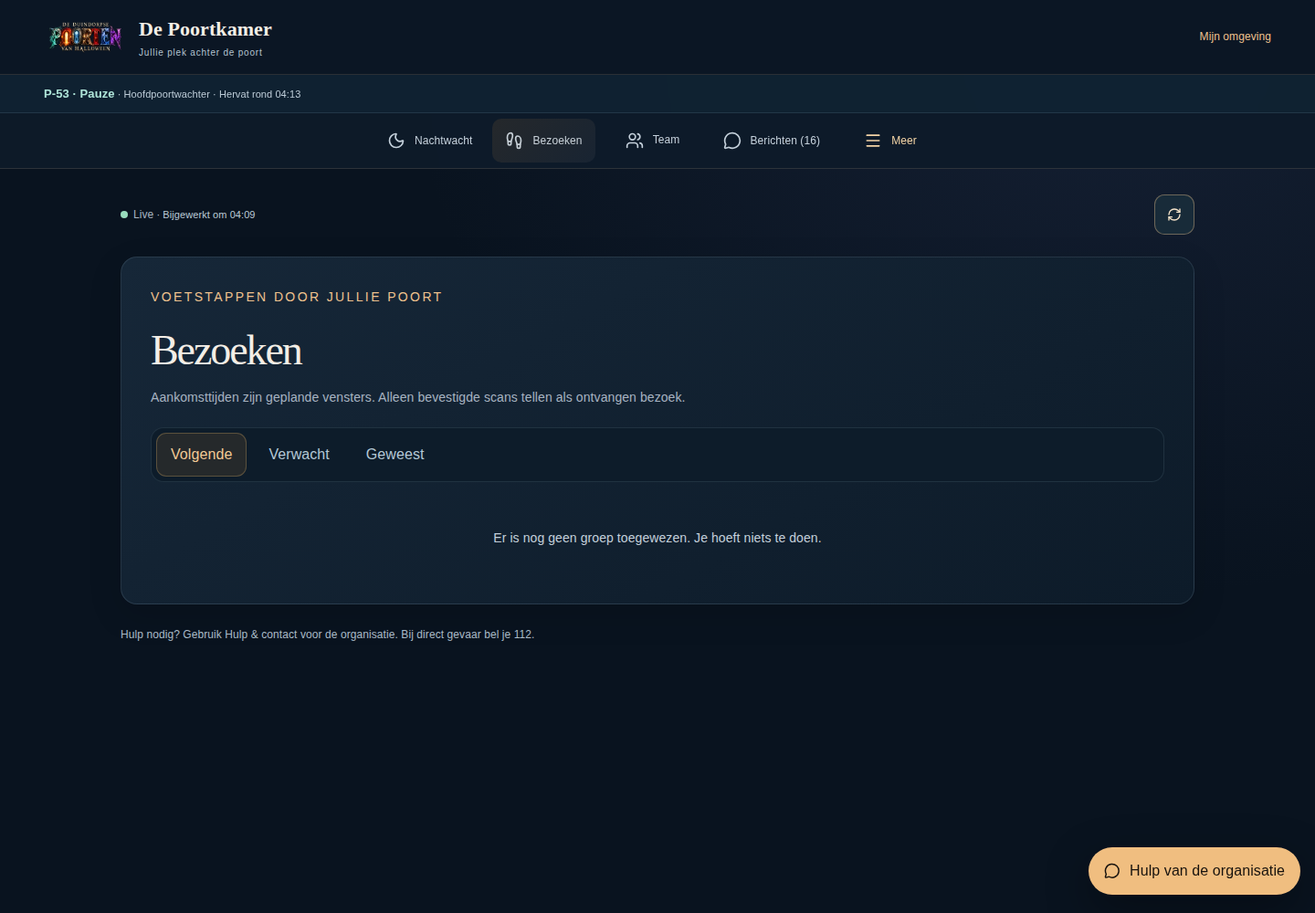
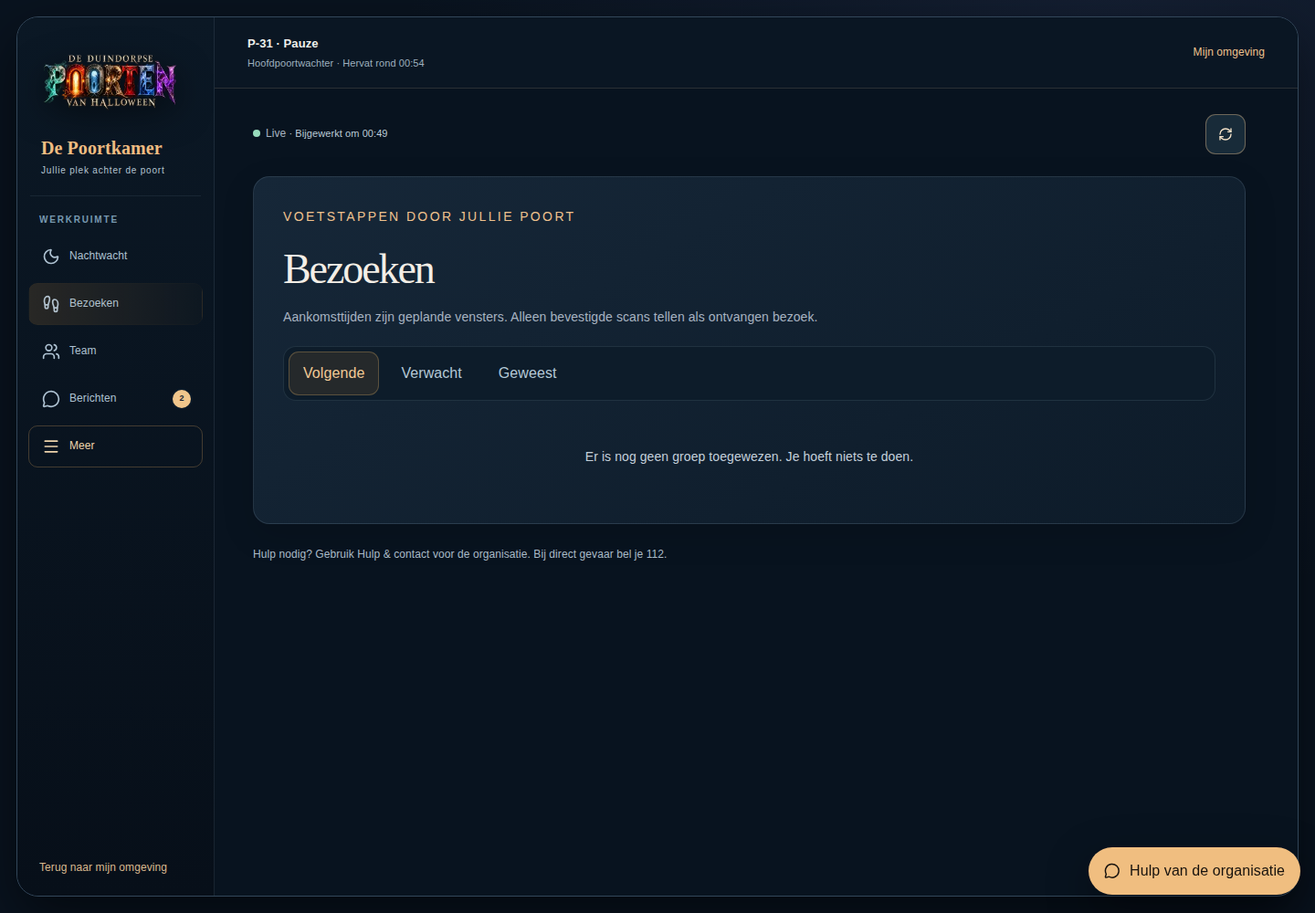
feat: polish navigation across private environments

diff --git a/components/admin/admin-console.tsx b/components/admin/admin-console.tsx
@@ -1148,7 +1148,8 @@ export function AdminConsole({ eventSlug, capabilities, editorialEnabled = false
           <Image src="/images/logo.webp" alt="De Duindorpse Poorten van Halloween" width={180} height={76} priority />
           <span>Nachtregie · organisatie</span>
         </Link>
-        <p className="admin-nav-label">Werkruimte</p>
+        <div className="admin-nav-group" role="group" aria-labelledby="admin-nav-overview">
+        <p className="admin-nav-label" id="admin-nav-overview">Overzicht</p>
         <button
           className={section === "overview" ? "active" : ""}
           aria-current={section === "overview" ? "page" : undefined}
@@ -1158,14 +1159,9 @@ export function AdminConsole({ eventSlug, capabilities, editorialEnabled = false
           Cockpit
         </button>
         {canViewStatistics && <button className={section === "statistics" ? "active" : ""} aria-current={section === "statistics" ? "page" : undefined} onClick={() => setSection("statistics")}><BarChart3 />Statistieken</button>}
-        <button
-          className={section === "imports" ? "active" : ""}
-          aria-current={section === "imports" ? "page" : undefined}
-          onClick={() => setSection("imports")}
-        >
-          <Database />
-          Imports
-        </button>
+        </div>
+        <div className="admin-nav-group" role="group" aria-labelledby="admin-nav-participants">
+        <p className="admin-nav-label" id="admin-nav-participants">Deelnemers</p>
         <button
           className={section === "registrations" ? "active" : ""}
           aria-current={section === "registrations" ? "page" : undefined}
@@ -1182,9 +1178,7 @@ export function AdminConsole({ eventSlug, capabilities, editorialEnabled = false
           <span>Inschrijvingen</span>
           {dashboard.counts.registrations > 0 && <b aria-hidden="true">{dashboard.counts.registrations}</b>}
         </button>
-        {canUsePraatkamer && <button className={section === "praatkamer" ? "active" : ""} aria-current={section === "praatkamer" ? "page" : undefined} onClick={() => setSection("praatkamer")}><MessageSquare />Praatkamer</button>}
         {canManageTogether && <button className={section === "together" ? "active" : ""} aria-current={section === "together" ? "page" : undefined} onClick={() => setSection("together")}><UsersRound />Samenloop</button>}
-        {canManageGroups && <button className={section === "poortenboek" ? "active" : ""} aria-current={section === "poortenboek" ? "page" : undefined} onClick={() => setSection("poortenboek")}><Sparkles />Poortenboek</button>}
         {(capabilities.includes("event_admin") || capabilities.includes("groups_manage")) && (
           <button
             className={section === "groups" ? "active" : ""}
@@ -1195,6 +1189,41 @@ export function AdminConsole({ eventSlug, capabilities, editorialEnabled = false
             Groepsindeling
           </button>
         )}
+        {canManageGroups && <button className={section === "poortenboek" ? "active" : ""} aria-current={section === "poortenboek" ? "page" : undefined} onClick={() => setSection("poortenboek")}><Sparkles />Poortenboek</button>}
+        <button
+          className={section === "payments" ? "active" : ""}
+          aria-current={section === "payments" ? "page" : undefined}
+          onClick={() => {
+            setSection("payments");
+            void loadPayments();
+          }}
+        >
+          <WalletCards />
+          Betalingen
+        </button>
+        </div>
+        <div className="admin-nav-group" role="group" aria-labelledby="admin-nav-planning">
+        <p className="admin-nav-label" id="admin-nav-planning">Poorten & planning</p>
+        <button
+          className={section === "portals" ? "active" : ""}
+          aria-current={section === "portals" ? "page" : undefined}
+          onClick={() => setSection("portals")}
+        >
+          <House />
+          Poorten
+        </button>
+        <button
+          className={section === "planner" ? "active" : ""}
+          aria-current={section === "planner" ? "page" : undefined}
+          onClick={() => setSection("planner")}
+        >
+          <MapPinned />
+          Startpunten en indeling
+        </button>
+        </div>
+        <div className="admin-nav-group" role="group" aria-labelledby="admin-nav-communication">
+        <p className="admin-nav-label" id="admin-nav-communication">Communicatie</p>
+        {canUsePraatkamer && <button className={section === "praatkamer" ? "active" : ""} aria-current={section === "praatkamer" ? "page" : undefined} onClick={() => setSection("praatkamer")}><MessageSquare />Praatkamer</button>}
         {(capabilities.includes("event_admin") ||
           capabilities.includes("groups_manage") ||
           capabilities.includes("live_support")) && (
@@ -1219,33 +1248,6 @@ export function AdminConsole({ eventSlug, capabilities, editorialEnabled = false
             Deelnemersupdates
           </button>
         )}
-        <button
-          className={section === "payments" ? "active" : ""}
-          aria-current={section === "payments" ? "page" : undefined}
-          onClick={() => {
-            setSection("payments");
-            void loadPayments();
-          }}
-        >
-          <WalletCards />
-          Betalingen
-        </button>
-        <button
-          className={section === "portals" ? "active" : ""}
-          aria-current={section === "portals" ? "page" : undefined}
-          onClick={() => setSection("portals")}
-        >
-          <House />
-          Poorten
-        </button>
-        <button
-          className={section === "planner" ? "active" : ""}
-          aria-current={section === "planner" ? "page" : undefined}
-          onClick={() => setSection("planner")}
-        >
-          <MapPinned />
-          Startpunten en indeling
-        </button>
         {editorialEnabled && capabilities.some((c) => ["event_admin", "content_manage", "content_publish", "communications_manage", "communications_send"].includes(c)) && <button className={section === "editorial" ? "active" : ""} aria-current={section === "editorial" ? "page" : undefined} onClick={() => setSection("editorial")}><FileText />Redactiekamer</button>}
         {canManageShares && <button className={section === "share" ? "active" : ""} aria-current={section === "share" ? "page" : undefined} onClick={() => setSection("share")}><Share2 />Deelstudio</button>}
         <button
@@ -1256,16 +1258,9 @@ export function AdminConsole({ eventSlug, capabilities, editorialEnabled = false
           <FileText />
           Content & sponsors
         </button>
-        {capabilities.includes("event_admin") && (
-          <button
-            className={section === "access" ? "active" : ""}
-          aria-current={section === "access" ? "page" : undefined}
-            onClick={() => setSection("access")}
-          >
-            <UserCog />
-            Beheerders
-          </button>
-        )}
+        </div>
+        <div className="admin-nav-group" role="group" aria-labelledby="admin-nav-live">
+        <p className="admin-nav-label" id="admin-nav-live">Live & oefenen</p>
         <button
           className={section === "live" ? "active" : ""}
           aria-current={section === "live" ? "page" : undefined}
@@ -1288,6 +1283,27 @@ export function AdminConsole({ eventSlug, capabilities, editorialEnabled = false
           <Play />
           Avondsimulatie
         </button>
+        </div>
+        <div className="admin-nav-group" role="group" aria-labelledby="admin-nav-management">
+        <p className="admin-nav-label" id="admin-nav-management">Beheer</p>
+        <button
+          className={section === "imports" ? "active" : ""}
+          aria-current={section === "imports" ? "page" : undefined}
+          onClick={() => setSection("imports")}
+        >
+          <Database />
+          Imports
+        </button>
+        {capabilities.includes("event_admin") && (
+          <button
+            className={section === "access" ? "active" : ""}
+          aria-current={section === "access" ? "page" : undefined}
+            onClick={() => setSection("access")}
+          >
+            <UserCog />
+            Beheerders
+          </button>
+        )}
         <button
           className={section === "settings" ? "active" : ""}
           aria-current={section === "settings" ? "page" : undefined}
@@ -1296,6 +1312,7 @@ export function AdminConsole({ eventSlug, capabilities, editorialEnabled = false
           <SlidersHorizontal />
           Instellingen
         </button>
+        </div>
       </aside>
       <div className="admin-workspace" inert={mobileNavOpen}>
         <header className="admin-appbar" aria-label="Nachtregie werkbalk">
@@ -1838,10 +1855,10 @@ export function AdminConsole({ eventSlug, capabilities, editorialEnabled = false
         )}
         </main>
         <nav className="admin-bottomnav" aria-label="Snelle organisatienavigatie">
-          <button className={section === "overview" ? "active" : ""} aria-current={section === "overview" ? "page" : undefined} onClick={() => setSection("overview")}><House /><span>Home</span></button>
-          {canUsePraatkamer && <button className={section === "praatkamer" ? "active" : ""} aria-current={section === "praatkamer" ? "page" : undefined} onClick={() => setSection("praatkamer")}><MessageSquare /><span>Chat</span></button>}
-          {canUseLive && <button className={section === "live" ? "active" : ""} aria-current={section === "live" ? "page" : undefined} onClick={() => { setSection("live"); void loadLive(); }}><LifeBuoy /><span>Cockpit</span></button>}
-          {canUseTickets && <button className={section === "tickets" ? "active" : ""} aria-current={section === "tickets" ? "page" : undefined} onClick={() => setSection("tickets")}><MessageSquare /><span>Berichten</span></button>}
+          <button className={section === "overview" ? "active" : ""} aria-current={section === "overview" ? "page" : undefined} onClick={() => setSection("overview")}><House /><span>Overzicht</span></button>
+          {canUsePraatkamer && <button className={section === "praatkamer" ? "active" : ""} aria-current={section === "praatkamer" ? "page" : undefined} onClick={() => setSection("praatkamer")}><UsersRound /><span>Praatkamer</span></button>}
+          {canUseLive && <button className={section === "live" ? "active" : ""} aria-current={section === "live" ? "page" : undefined} onClick={() => { setSection("live"); void loadLive(); }}><LifeBuoy /><span>Live</span></button>}
+          {canUseTickets && <button className={section === "tickets" ? "active" : ""} aria-current={section === "tickets" ? "page" : undefined} onClick={() => setSection("tickets")}><MessageSquare /><span>Inbox</span></button>}
           <button ref={bottomNavMoreButtonRef} className="admin-bottomnav-more" aria-expanded={mobileNavOpen} aria-controls="admin-navigation" onClick={() => { navigationOpenerRef.current = bottomNavMoreButtonRef.current; setMobileNavOpen(true); }}><Menu /><span>Meer</span></button>
         </nav>
       </div>

diff --git a/components/portal/poortkamer.module.css b/components/portal/poortkamer.module.css
@@ -343,6 +343,7 @@
   background: #365359;
   color: #ffe0b4;
 }
+.subTabs{max-width:620px;margin-top:-8px;margin-bottom:0;background:transparent;border-style:dashed}
 .channelList {
   display: flex;
   flex-wrap: wrap;
@@ -813,7 +814,7 @@
 .top{min-height:82px;padding-block:12px;background:#0b1624}.brand img{width:90px;height:55px}.brand strong{font-size:22px}.brand small{font-size:10px;color:#b4c4d0}.top>a{font-size:12px;min-height:44px;display:flex;align-items:center}
 .statusbar{padding-block:10px;min-height:64px;border-color:#7798ab30;background:#102232f5}.statusbar>div:first-child{font-size:13px}.statusbar small{font-size:11px}.statusbar .button{min-height:44px;padding:9px 13px;font-size:12px;background:#1b3041;border-color:#8ba7b14d}
 .content{display:grid;gap:24px;padding-block:28px 40px}.content>*{min-width:0}.card{padding:clamp(22px,2.4vw,32px);border-radius:18px;background:linear-gradient(150deg,#162738,#0d1b29);border-color:#819aad33;box-shadow:0 12px 36px #0002}.card+.card{margin-top:0}.card>:first-child{margin-top:0}.card>:last-child{margin-bottom:0}.card>p{margin:12px 0 20px;font-size:14px}.card h1{font-size:clamp(30px,4vw,46px);margin:8px 0 14px}.card h2{font-size:clamp(25px,2.5vw,34px);margin:6px 0 14px}.card h3{margin:0 0 10px;font-size:22px}.card p+.button,.card p+.actions{margin-top:20px}.cardImage{height:180px;margin-bottom:24px;object-fit:cover}.grid{gap:24px}.button{padding:10px 15px;border-radius:11px;font-size:13px;min-height:44px;line-height:1.4;box-shadow:none}.actions{gap:10px}.tabs{gap:8px;margin:0 0 22px;padding:5px;border:1px solid #809aaf2c;border-radius:14px;background:#0d1c2a}.tabs .button{border-color:transparent;background:transparent;color:#b4c8d6}.tabs .button[aria-pressed=true]{color:#f1c995;background:#a7763327;border-color:#cfa56552;box-shadow:none}.row{gap:18px;align-items:center}.row p{margin:8px 0}.row h3{margin:0 0 8px}.field{gap:8px}.field input,.field select,.field textarea{border-radius:11px;padding:11px 13px;line-height:1.5}.notice{padding:18px 22px;border-radius:14px;margin:0}.notice strong{display:block;margin-bottom:8px}.notice p{margin:8px 0 14px}.hero{min-height:280px;border-bottom:0}.heroText{padding:38px clamp(22px,5vw,60px)}.hero h1{font-size:clamp(32px,4.5vw,58px);max-width:16ch;margin:12px 0 16px}.hero p{font-size:14px}.metrics{gap:14px;margin:0}.metric{padding:20px;border-radius:14px;background:linear-gradient(145deg,#193244,#112333)}.metric strong{margin-bottom:8px}.metric span{font-size:11px;line-height:1.5}.nav button{font-size:12px}.nav button[aria-current]{background:linear-gradient(135deg,#55443155,#29334266);color:#f6d4a2}.pageTools{display:flex;justify-content:space-between;align-items:center;gap:12px;color:#b7c9d4}.pageTools p{font-size:12px;margin:0}.pageTools .button{padding:9px 12px;font-size:12px}.pageTools small{font-size:11px}.chatContent{max-width:1320px}.organizerUpdates .row{margin-bottom:12px}.organizerUpdates .row h2{margin:4px 0 0}.organizerUpdates .row p{margin:0}.organizerUpdates>article{display:flex;align-items:flex-start;gap:14px;padding:16px 0;border-top:1px solid #849bad26}.organizerUpdates article p{margin:0 0 8px;white-space:pre-wrap;font-size:14px;line-height:1.65}.organizerUpdates article time{font-size:11px;color:#a4bbc9}.organizerUpdates article strong{display:block;color:#ffd18a;font-size:12px;margin-bottom:7px}.updateDot{width:8px;height:8px;flex:none;margin-top:8px;border-radius:50%;background:#e6bd80;box-shadow:0 0 12px #e6bd8033}.organizerUpdates .linkButton{min-height:44px;font-size:12px}.card>.row{padding-block:20px;border-bottom:1px solid #809aaf2a}.card>.row:last-child{border:0}.card>.row .actions{max-width:530px}.v2Live{margin:0}.v2LiveBody{padding:26px}.v2Feature{margin:0}.v2Feature form{display:grid;gap:20px}.v2Feature form .actions{margin-top:4px}.footerNote{line-height:1.7;font-size:12px;margin:0}.check{gap:10px;line-height:1.5;min-height:44px;font-size:13px}.check input{width:18px;height:18px;flex:none}
-@media(max-width:650px){.top{min-height:72px;gap:12px;padding:10px 16px;padding-top:max(10px,env(safe-area-inset-top))}.brand{gap:10px}.brand img{width:65px;height:45px}.brand strong{font-size:18px}.brand small{display:none}.top>a{font-size:11px;max-width:90px;text-align:right}.statusbar{gap:8px;padding:10px 14px}.statusbar>div:first-child{flex-basis:100%}.statusbar .actions{display:flex;flex-wrap:nowrap;gap:8px;width:100%}.statusbar .actions .button{flex:1}.content{padding:22px 16px 32px;gap:22px}.hero{min-height:250px}.heroText{padding:30px 22px}.hero h1{font-size:37px;max-width:15ch}.card{padding:23px 20px;border-radius:15px}.card h2{font-size:28px}.card h1{font-size:33px}.grid{gap:20px}.metrics{grid-template-columns:repeat(2,minmax(0,1fr));gap:10px}.metric{padding:17px 15px}.metric strong{font-size:28px}.metric span{font-size:11px}.pageTools{gap:8px}.pageTools small{display:block;margin-top:5px}.pageTools .button{padding:8px 10px}.tabs{flex-wrap:nowrap;overflow-x:auto;padding:5px}.tabs .button{flex:none;white-space:nowrap;font-size:12px}.row{flex-wrap:wrap;gap:14px}.card>.row .actions{width:100%;display:grid;grid-template-columns:1fr}.card>.row .field{width:100%}.card>.row .button{width:100%}.field input,.field select,.field textarea{font-size:16px}.nav button{font-size:10px;min-height:50px}.nav{padding:7px 8px max(7px,env(safe-area-inset-bottom));gap:4px;background:#0a1725f7}.nav button[aria-current]{border-radius:12px}.organizerUpdates .row{flex-wrap:nowrap;align-items:center}.organizerUpdates .row .linkButton{flex:none}.organizerUpdates .row h2{font-size:25px}.organizerUpdates article p{font-size:14px}.v2LiveBody{padding:23px 20px}}
+@media(max-width:650px){.top{min-height:72px;gap:12px;padding:10px 16px;padding-top:max(10px,env(safe-area-inset-top))}.brand{gap:10px}.brand img{width:65px;height:45px}.brand strong{font-size:18px}.brand small{display:none}.top>a{font-size:11px;max-width:90px;text-align:right}.statusbar{gap:8px;padding:10px 14px}.statusbar>div:first-child{flex-basis:100%}.statusbar .actions{display:flex;flex-wrap:nowrap;gap:8px;width:100%}.statusbar .actions .button{flex:1}.content{padding:22px 16px 32px;gap:22px}.hero{min-height:250px}.heroText{padding:30px 22px}.hero h1{font-size:37px;max-width:15ch}.card{padding:23px 20px;border-radius:15px}.card h2{font-size:28px}.card h1{font-size:33px}.grid{gap:20px}.metrics{grid-template-columns:repeat(2,minmax(0,1fr));gap:10px}.metric{padding:17px 15px}.metric strong{font-size:28px}.metric span{font-size:11px}.pageTools{gap:8px}.pageTools small{display:block;margin-top:5px}.pageTools .button{padding:8px 10px}.tabs{flex-wrap:nowrap;overflow-x:auto;padding:5px}.tabs .button{flex:none;white-space:nowrap;font-size:12px}.moreTabs{display:grid;grid-template-columns:repeat(2,minmax(0,1fr));overflow:visible}.moreTabs .button{width:100%;white-space:normal}.row{flex-wrap:wrap;gap:14px}.card>.row .actions{width:100%;display:grid;grid-template-columns:1fr}.card>.row .field{width:100%}.card>.row .button{width:100%}.field input,.field select,.field textarea{font-size:16px}.nav button{font-size:10px;min-height:50px}.nav{padding:7px 8px max(7px,env(safe-area-inset-bottom));gap:4px;background:#0a1725f7}.nav button[aria-current]{border-radius:12px}.organizerUpdates .row{flex-wrap:nowrap;align-items:center}.organizerUpdates .row .linkButton{flex:none}.organizerUpdates .row h2{font-size:25px}.organizerUpdates article p{font-size:14px}.v2LiveBody{padding:23px 20px}}
 
 /* Each More tab is a single, focused workspace. */
 .moreGrid{grid-template-columns:minmax(0,1fr);gap:24px}

diff --git a/components/participant/participant-shell.tsx b/components/participant/participant-shell.tsx
@@ -83,8 +83,7 @@ const navigation: Record<ParticipantRoleKey, NavItem[]> = {
     { key: "meer", label: "Meer", icon: Settings2 },
   ],
   homeowner: [
-    { key: "mijn-poort", label: "Mijn poort", icon: DoorOpen },
-    { key: "verwacht", label: "Verwacht", icon: Clock3 },
+    { key: "mijn-poort", label: "Poortkamer", icon: DoorOpen },
     { key: "updates", label: "Updates", icon: Bell },
     { key: "meer", label: "Meer", icon: Settings2 },
   ],
@@ -399,23 +398,13 @@ function HomeownerSection({ context, eventSlug, userId, role, section }: { conte
     }
   }, [eventSlug, role.portalId]);
   useEffect(() => { const timer = window.setTimeout(() => void load(), 0); return () => window.clearTimeout(timer); }, [load]);
-  if (role.portalId || portal?.portal) return <ParticipantPageFrame eyebrow="Jullie plek achter de poort" title="De Poortkamer"><p>Nachtwacht, bezoeken, jullie team en berichten komen samen in De Poortkamer.</p><Link className="btn" href="/mijn-huis">Open De Poortkamer</Link></ParticipantPageFrame>;
   if (section === "updates") return <UpdatesPanel eventSlug={eventSlug} role="homeowner" />;
   if (section === "meer") return <MorePage context={context} eventSlug={eventSlug} userId={userId} role="homeowner" />;
-  if (section === "verwacht") return <ArrivalsPage arrivals={arrivals} />;
+  if (role.portalId || portal?.portal) return <ParticipantPageFrame eyebrow="Jullie plek achter de poort" title="De Poortkamer"><p>Nachtwacht, bezoeken, jullie team en berichten komen samen in De Poortkamer.</p><Link className="btn" href="/mijn-huis">Open De Poortkamer</Link></ParticipantPageFrame>;
   return <ParticipantPageFrame eyebrow="Mijn huis · jullie plek in de nacht" title={portal?.portal?.name || "Mijn poort"}>
     <div className="cockpit-metrics owner-summary-metrics"><StatusCard icon={Users} label="Verwacht totaal" value={arrivals ? `${arrivals.expectedTotal} kinderen` : "Wordt berekend"} /><StatusCard icon={Clock3} label="Volgend venster" value={arrivals?.arrivals.find((item) => item.state !== "completed") ? `${formatTime(arrivals.arrivals.find((item) => item.state !== "completed")!.plannedArrivalAt)}–${formatTime(arrivals.arrivals.find((item) => item.state !== "completed")!.plannedDepartureAt)}` : "Geen open venster"} /></div>
     <div className="planned-not-live owner-arrival-note"><Clock3 /><span><strong>Dit is de verwachte aankomsttijd.</strong>Groepen kunnen eerder of later lopen. Gebruik Pauze zodra ontvangst tijdelijk niet veilig of mogelijk is.</span></div>
     <PortalDashboard eventSlug={eventSlug} /><PortalNews channel="houses" compact />
-  </ParticipantPageFrame>;
-}
-
-function ArrivalsPage({ arrivals }: { arrivals: ArrivalsSnapshot | null }) {
-  return <ParticipantPageFrame eyebrow="Geplande routevensters" title="Wie kun je verwachten?">
-    <section className="participant-card arrivals-card"><div className="section-title"><div><p className="participant-eyebrow">Avondplanning</p><h2>{arrivals?.expectedTotal ?? 0} kinderen verdeeld over {arrivals?.arrivals.length ?? 0} groepen</h2></div><Clock3 /></div>
-      <p>Groepen kunnen wat eerder of later komen dan gepland.</p>
-      <div className="arrival-timeline">{arrivals?.arrivals.map((arrival) => <article key={`${arrival.groupCode}-${arrival.plannedArrivalAt}`} className={arrival.state}><time>{formatTime(arrival.plannedArrivalAt)}</time><span /><div><strong>Groep {arrival.groupCode}</strong><p>{arrival.expectedChildren} kinderen · venster tot {formatTime(arrival.plannedDepartureAt)}</p><small>{arrival.state === "completed" ? "Bezoek afgerond" : arrival.state === "active" ? "Vrijgegeven in groepsroute" : "Gepland"}</small></div></article>)}{!arrivals?.arrivals.length && <p>Er zijn nog geen bezoeken aangekondigd.</p>}</div>
-    </section>
   </ParticipantPageFrame>;
 }
 

diff --git a/app/globals.css b/app/globals.css
@@ -613,6 +613,9 @@ body:has(.admin-shell) .site-header{background:#07111bed;border-bottom-color:#78
 .admin-brand img{width:175px;height:auto;filter:drop-shadow(0 10px 18px #0008)}
 .admin-brand span,.admin-nav-label{font-size:10px;font-weight:700;letter-spacing:.18em;text-transform:uppercase}
 .admin-nav-label{margin:0 12px 7px;color:#6f93ab}
+.admin-nav-group{display:grid;gap:4px;padding:2px 0 10px;border-bottom:1px solid #6077891f}
+.admin-nav-group:last-child{padding-bottom:0;border-bottom:0}
+.admin-nav-group+.admin-nav-group{padding-top:7px}
 .admin-nav button{position:relative;min-height:45px;padding:12px 13px;border-left:2px solid transparent;border-radius:7px;color:#aec2d2;transition:background .18s ease,color .18s ease,border-color .18s ease}
 .admin-nav button:hover,.admin-nav button.active{border-left-color:#eaaa65;background:linear-gradient(90deg,#5b3e272e,#1b242d7a);color:#ffe0b7}
 .admin-nav button span{min-width:0}
@@ -682,6 +685,7 @@ body:has(.admin-shell) .site-header{background:#07111bed;border-bottom-color:#78
   .admin-brand{grid-column:1/-1;justify-items:start;margin:0;padding:0 0 16px;grid-template-columns:auto 1fr}
   .admin-brand img{width:140px}
   .admin-nav-label{grid-column:1/-1}
+  .admin-nav-group{grid-column:1/-1;grid-template-columns:repeat(3,minmax(0,1fr))}
   .registration-admin-summary{grid-template-columns:54px minmax(180px,1fr) auto}
   .registration-admin-meta{grid-column:2/3}
   .registration-row-open{grid-column:3;grid-row:1/3}
@@ -695,6 +699,7 @@ body:has(.admin-shell) .site-header{background:#07111bed;border-bottom-color:#78
   .admin-nav{display:flex;align-items:stretch;gap:7px;overflow-x:auto;padding:12px}
   .admin-brand{display:none}
   .admin-nav-label{display:none}
+  .admin-nav-group{display:contents}
   .admin-nav button{flex:0 0 auto;min-height:42px;padding:10px 12px}
   .admin-nav button svg{width:16px}
   .admin-nav button b{min-width:20px;height:20px}
@@ -791,7 +796,9 @@ body:has(.admin-shell) .inner-page{padding-top:0}
   .admin-shell .admin-brand img{width:150px}
   .admin-shell .admin-brand span{font-size:10px;line-height:1.5}
   .admin-shell .admin-nav-label{display:block;flex:none;margin:8px 12px}
-  .admin-shell .admin-nav>button{flex:0 0 auto;width:100%;min-height:46px;white-space:normal;overflow-wrap:anywhere;text-align:left;padding:12px;line-height:1.4}
+  .admin-shell .admin-nav-group{display:grid;flex:none;grid-template-columns:1fr;gap:5px;width:100%;padding:5px 0 10px;border-bottom:1px solid #6077892b}
+  .admin-shell .admin-nav-group:last-child{border-bottom:0}
+  .admin-shell .admin-nav-group>button{flex:0 0 auto;width:100%;min-height:46px;white-space:normal;overflow-wrap:anywhere;text-align:left;padding:12px;line-height:1.4}
   .admin-shell .admin-nav button svg{flex-shrink:0;width:18px;height:18px}
   .admin-shell .admin-nav button b{flex-shrink:0}
   .admin-topbar{position:sticky;top:0;z-index:40;min-height:64px;gap:12px;padding:10px 16px;background:#08121b;box-shadow:0 5px 20px #0003}

diff --git a/components/portal/poortkamer.tsx b/components/portal/poortkamer.tsx
@@ -76,6 +76,7 @@ export function Poortkamer({
   const [room, setRoom] = useState<PortalRoom | null>(initial);
   const [portalId, setPortalId] = useState(initial.portal.id);
   const [moreSection, setMoreSection] = useState("preparation");
+  const [preparationSection, setPreparationSection] = useState("checklist");
   const [tab, setTab] = useState<Tab>("night");
   const [visitTab, setVisitTab] = useState<"next" | "expected" | "past">(
     "next",
@@ -929,18 +930,19 @@ export function Poortkamer({
             admin={admin}
           />
         )}
-        {tab === "more" && <nav className={s.tabs} aria-label="Poortkamer instellingen">{[["preparation", "Voorbereiding"], ["presentation", "Presentatie"], ["incident", "Hulpvraag"], ["simulation", "Oefenen"], ["settings", "Instellingen"], ["recap", "Terugblik"]].map(([key, label]) => <button type="button" key={key} className={s.button} aria-pressed={moreSection === key} onClick={() => setMoreSection(key)}>{label}</button>)}</nav>}
+        {tab === "more" && <nav className={`${s.tabs} ${s.moreTabs}`} aria-label="Meer in De Poortkamer">{[["preparation", "Voorbereiden"], ["incident", "Hulp & contact"], ["settings", "Instellingen"], ["recap", "Terugblik"]].map(([key, label]) => <button type="button" key={key} className={s.button} aria-pressed={moreSection === key} onClick={() => setMoreSection(key)}>{label}</button>)}</nav>}
         {tab === "more" && (
           <div className={s.moreGrid}>
+            {moreSection === "preparation" && <nav className={`${s.tabs} ${s.subTabs}`} aria-label="Voorbereiden">{[["checklist", "Checklist"], ["presentation", "Presentatie"], ["simulation", "Oefenen"]].map(([key, label]) => <button type="button" key={key} className={s.button} aria-pressed={preparationSection === key} onClick={() => setPreparationSection(key)}>{label}</button>)}</nav>}
             <PoortkamerManagementV2
-              section={moreSection}
+              section={moreSection === "preparation" ? preparationSection : moreSection}
               room={room}
               busy={busy}
               disabled={disabled}
               canEdit={canEdit}
               command={(operation, payload) => command(operation, payload)}
             />
-            {moreSection === "preparation" &&             <section className={s.card}>
+            {moreSection === "preparation" && preparationSection === "checklist" &&             <section className={s.card}>
               <Image
                 className={s.cardImage}
                 src="/images/poortkamer/ready-for-the-night.webp"

diff --git a/tests/e2e/poortkamer.spec.ts b/tests/e2e/poortkamer.spec.ts
@@ -346,11 +346,12 @@ test("status dialogs, shared checklist, privacy, offline and all viewport contro
   await page.getByRole("button", { name: "Meer", exact: true }).click();
   await page.getByRole("button", { name: "Presentatie", exact: true }).click();
   await expect(page.getByRole("heading", { name: "Het verhaal dat kinderen meenemen" })).toBeVisible();
-  await page.getByRole("button", { name: "Hulpvraag", exact: true }).click();
+  await page.getByRole("button", { name: "Hulp & contact", exact: true }).click();
   await expect(page.getByRole("heading", { name: "Meld wat de ontvangst belemmert" })).toBeVisible();
+  await page.getByRole("button", { name: "Voorbereiden", exact: true }).click();
   await page.getByRole("button", { name: "Oefenen", exact: true }).click();
   await expect(page.getByRole("heading", { name: "Oefen de avond zonder echte gegevens" })).toBeVisible();
-  await page.getByRole("button", { name: "Voorbereiding", exact: true }).click();
+  await page.getByRole("button", { name: "Checklist", exact: true }).click();
   await expect(page.getByText(/snoepvoorraad/i)).toHaveCount(0);
   const installDismiss = page.getByRole("button", {
     name: "Ik heb de app al geïnstalleerd",
@@ -501,8 +502,8 @@ test("organization updates reach the cockpit live and only organization moderate
   const bottomNavigation = organization.getByRole("navigation", { name: "Snelle organisatienavigatie" });
   if (await bottomNavigation.isVisible()) {
     await expect(bottomNavigation.getByRole("button", { name: "Groepen", exact: true })).toHaveCount(0);
-    await bottomNavigation.getByRole("button", { name: "Chat", exact: true }).click();
-    await expect(bottomNavigation.getByRole("button", { name: "Chat", exact: true })).toHaveAttribute("aria-current", "page");
+    await bottomNavigation.getByRole("button", { name: "Praatkamer", exact: true }).click();
+    await expect(bottomNavigation.getByRole("button", { name: "Praatkamer", exact: true })).toHaveAttribute("aria-current", "page");
   } else {
     await organization.locator(".admin-nav").getByRole("button", { name: "Praatkamer", exact: true }).click();
   }

diff --git a/tests/e2e/authenticated-live.spec.ts b/tests/e2e/authenticated-live.spec.ts
@@ -93,6 +93,12 @@ test("the homeowner cockpit labels schedules as planned rather than live ETA", a
   await authenticate(context, "owner@example.invalid");
   await page.addLocatorHandler(page.getByRole("button", { name: "Installatievenster sluiten" }), async (close) => close.click());
   await page.goto("/omgeving/huiseigenaar/mijn-poort");
+  const navigation = page.locator("nav.participant-nav:visible, nav.participant-bottomnav:visible");
+  await expect(navigation.getByRole("link", { name: "Poortkamer", exact: true })).toBeVisible();
+  await expect(navigation.getByRole("link", { name: "Verwacht", exact: true })).toHaveCount(0);
+  await navigation.getByRole("link", { name: "Updates", exact: true }).click();
+  await expect(page.getByRole("heading", { name: "Updates", exact: true })).toBeVisible();
+  await navigation.getByRole("link", { name: "Poortkamer", exact: true }).click();
   await page.getByRole("link", { name: "Open De Poortkamer", exact: true }).click();
   await expect(page.getByRole("button", { name: "Open" })).toBeVisible();
   await expect(page.getByRole("button", { name: "Pauze", exact: true })).toBeVisible();
@@ -1051,6 +1057,10 @@ for (const width of [320, 375, 390, 430, 900]) {
     await opener.click();
     await expect(navigation).toHaveAttribute("aria-modal", "true");
     await expect(page.getByRole("button", { name: "Menu sluiten", exact: true })).toBeFocused();
+    await expect(navigation.getByRole("group")).toHaveCount(6);
+    for (const group of ["Overzicht", "Deelnemers", "Poorten & planning", "Communicatie", "Live & oefenen", "Beheer"]) {
+      await expect(navigation.getByRole("group", { name: group, exact: true })).toBeVisible();
+    }
     await expect(navigation.getByRole("button", { name: "Cockpit", exact: true })).toHaveAttribute("aria-current", "page");
     await expect(navigation.locator("button b").first()).toBeVisible();
     expect(await page.evaluate(() => document.body.style.overflow)).toBe("hidden");
